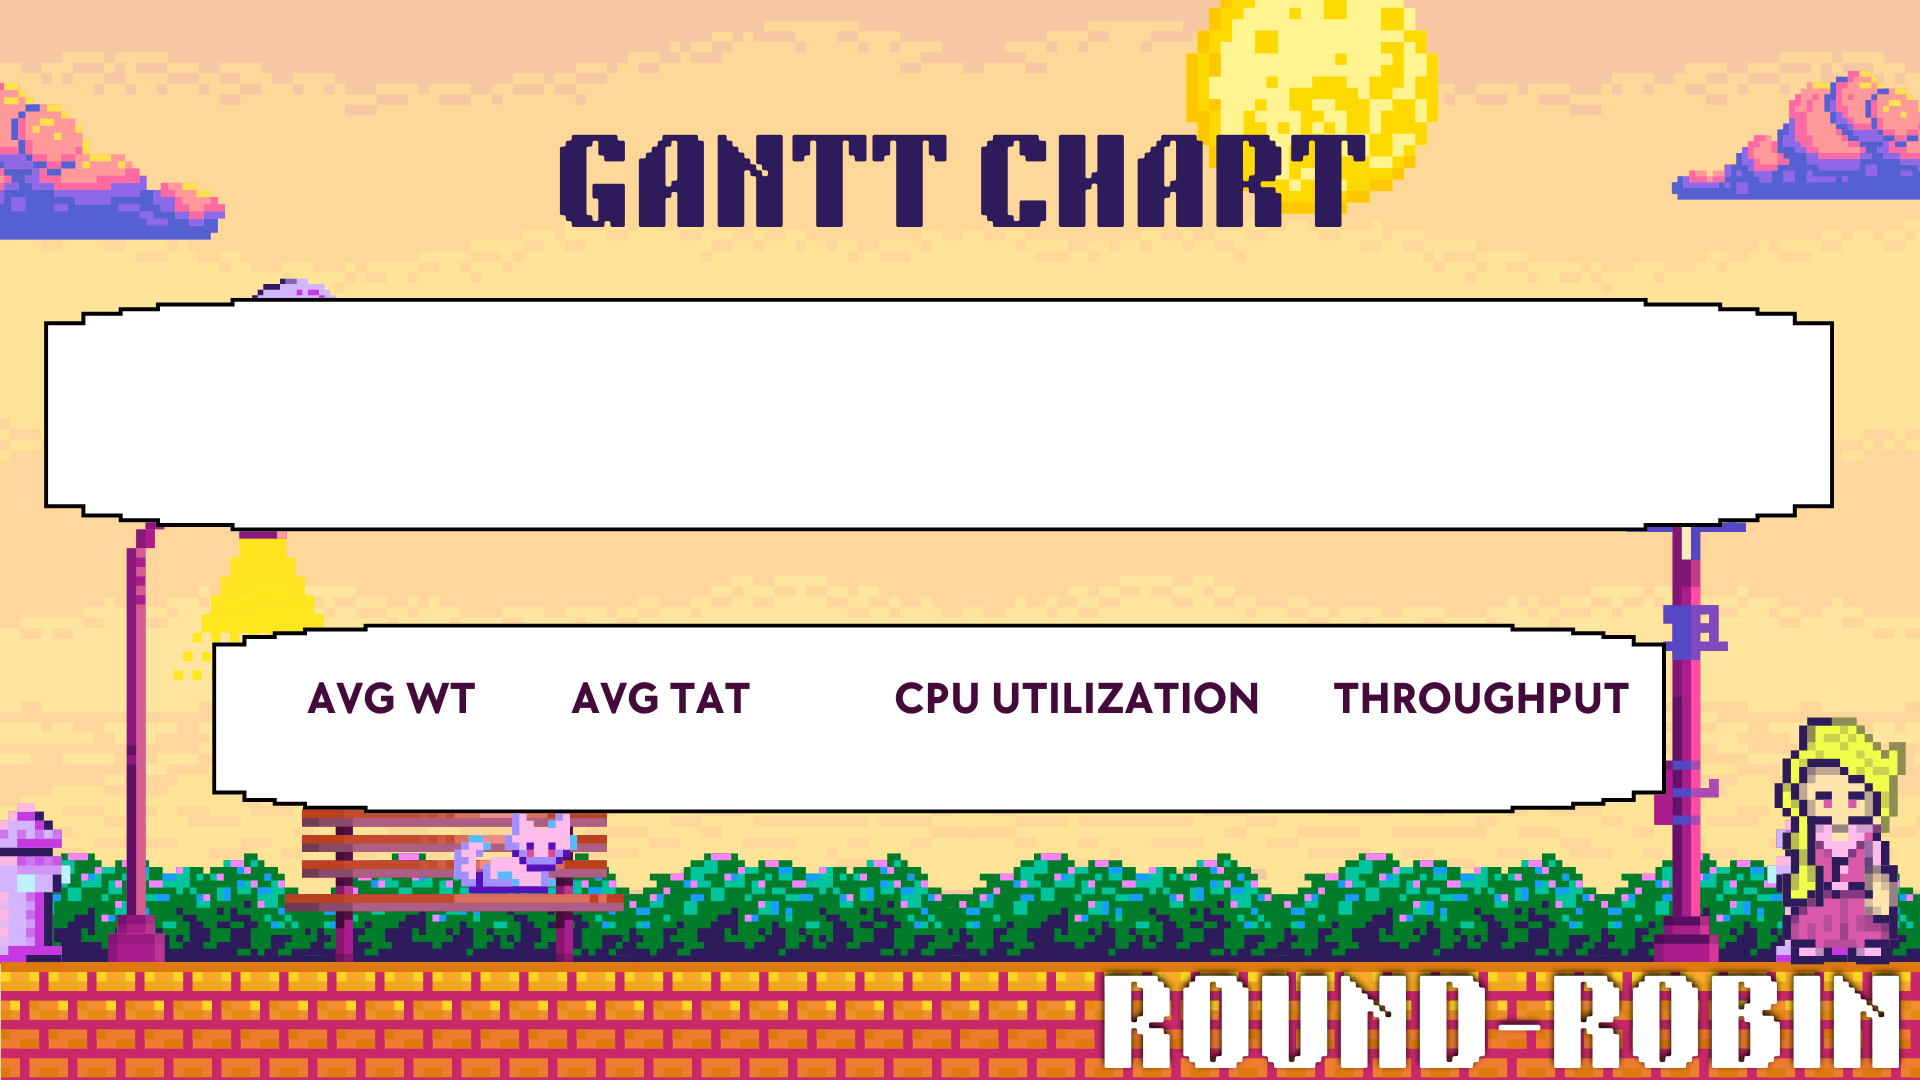
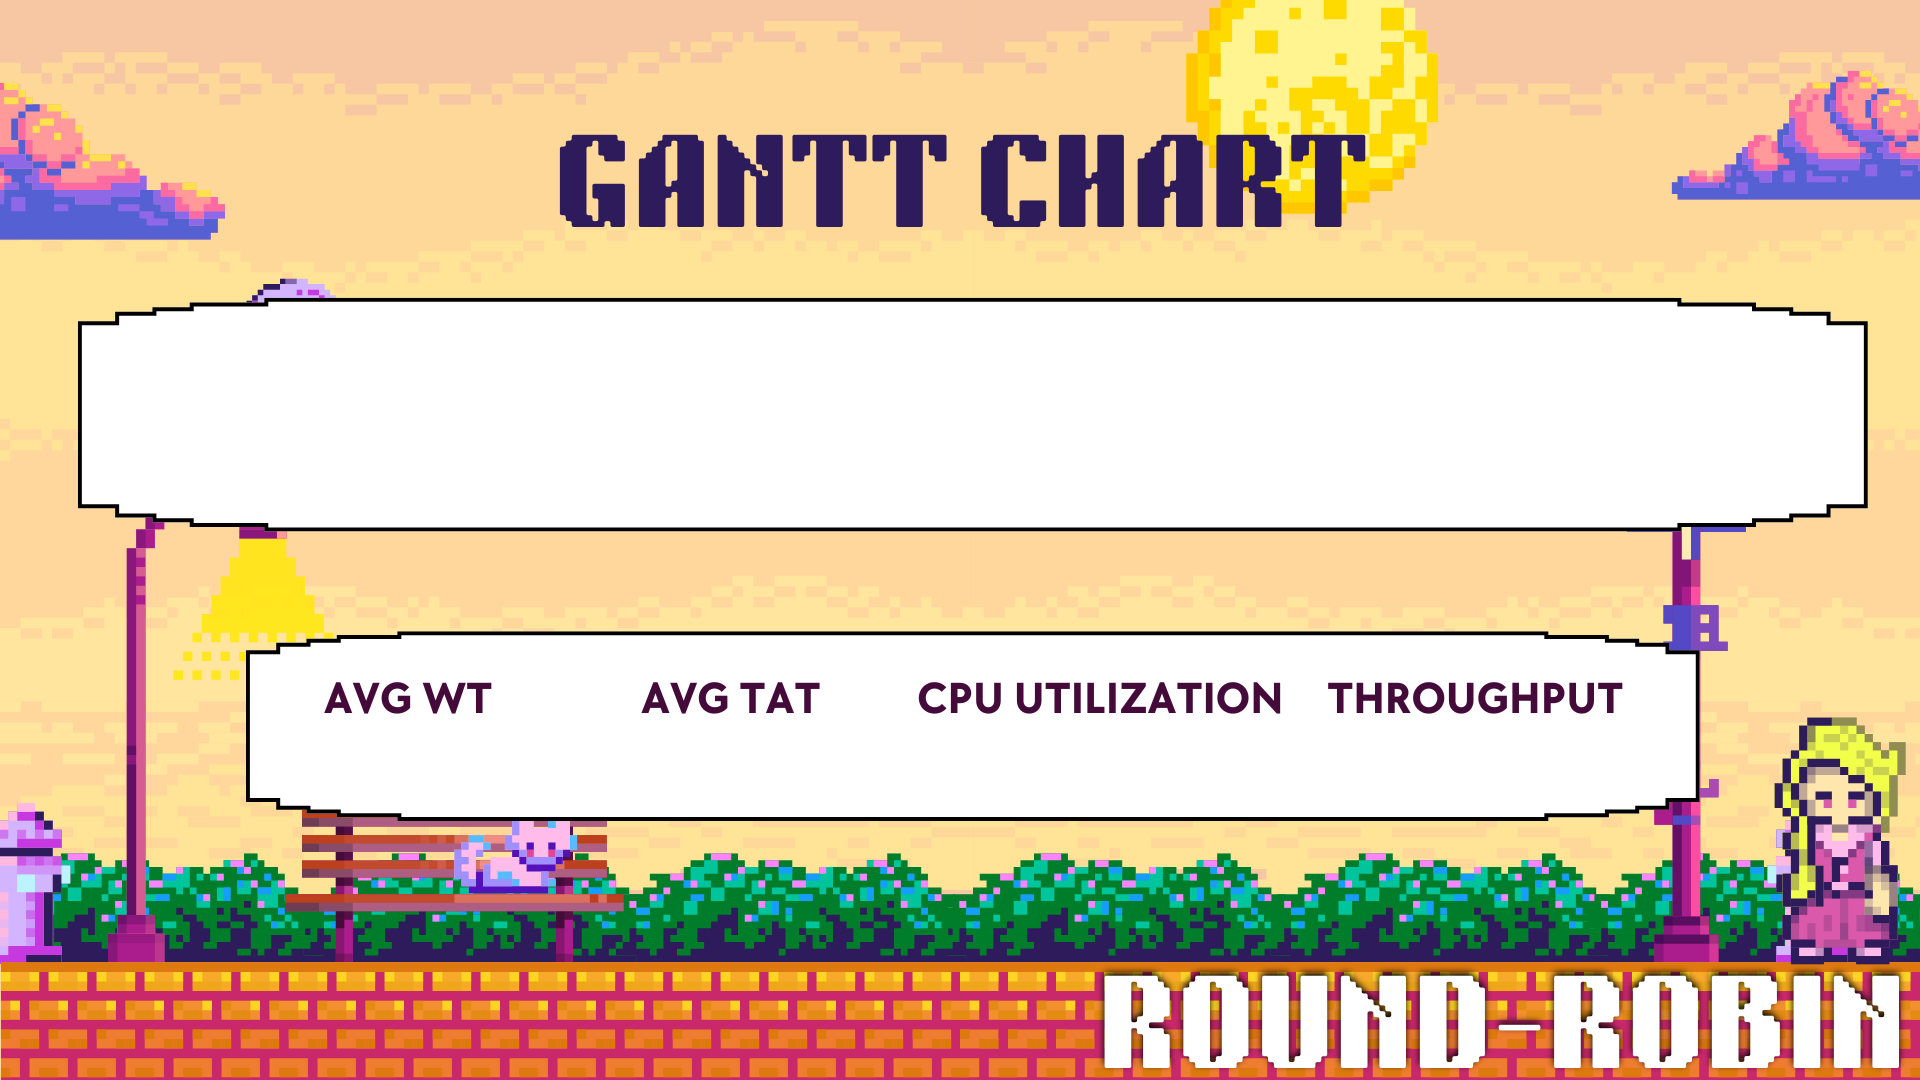
style(layout_config.py): corrected alignment issues with metrics' text

diff --git a/cpu_scheduling/sjf_rr/temporary_utils/layout_config.py b/cpu_scheduling/sjf_rr/temporary_utils/layout_config.py
@@ -7,9 +7,9 @@ on the master canvas window layer.
 # 1. LIVE METRICS AREA COORDINATES (Top Section Group)
 # =====================================================================
 METRICS_LAYOUT = {
-    'start_x': 320,                  
+    'start_x': 380,                  
     'start_y': 720,                   
-    'spacing_x': 350,                
+    'spacing_x': 340,                
     'value_offset_y': 40             # FIX: Vertical gap pushing metrics directly UNDER names
 }
 
@@ -19,8 +19,8 @@ METRICS_LAYOUT = {
 SIMULATION_PANE = {
     'y_start_coordinate': 350,       
     'process_block_height': 80,      
-    'left_margin': 100,              
-    'right_margin': 130,             
+    'left_margin': 120,              
+    'right_margin': 100,             
     'timestamp_offset_y': 20,        
 }
 
